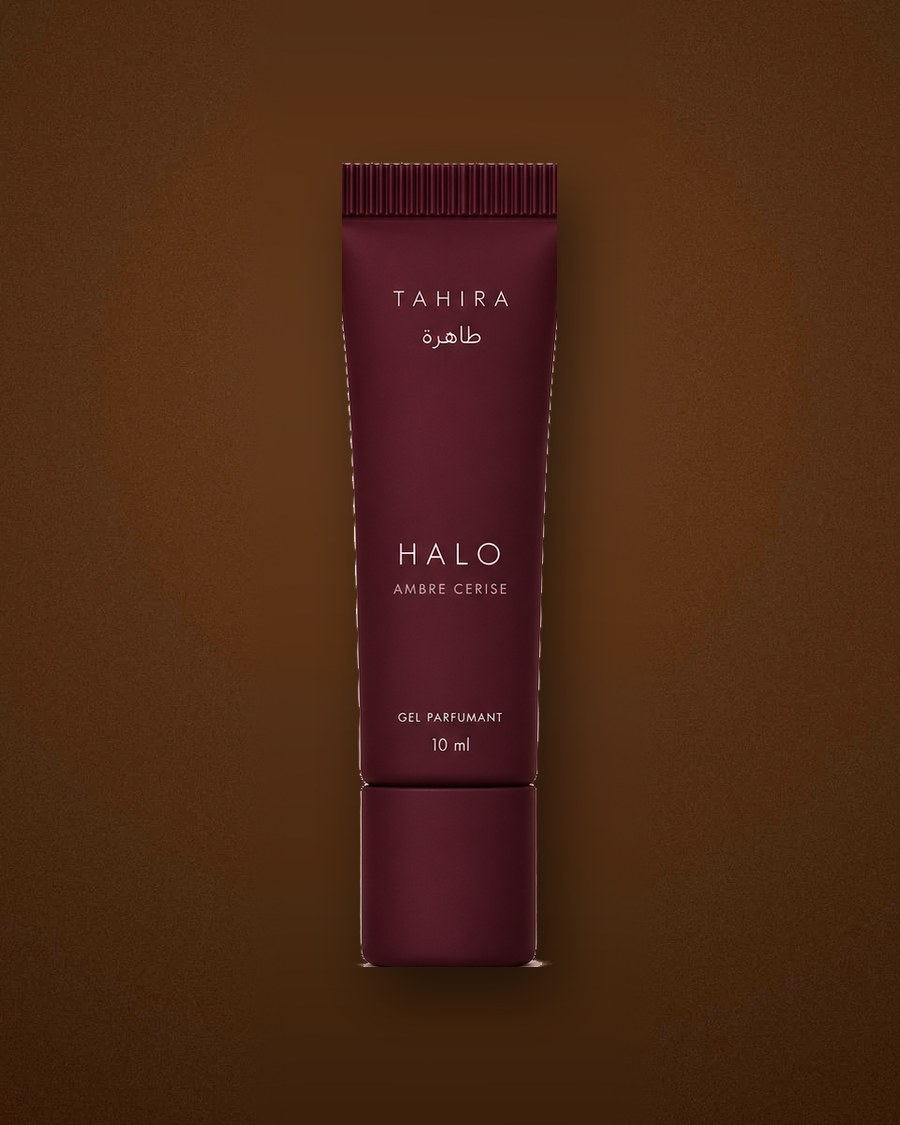
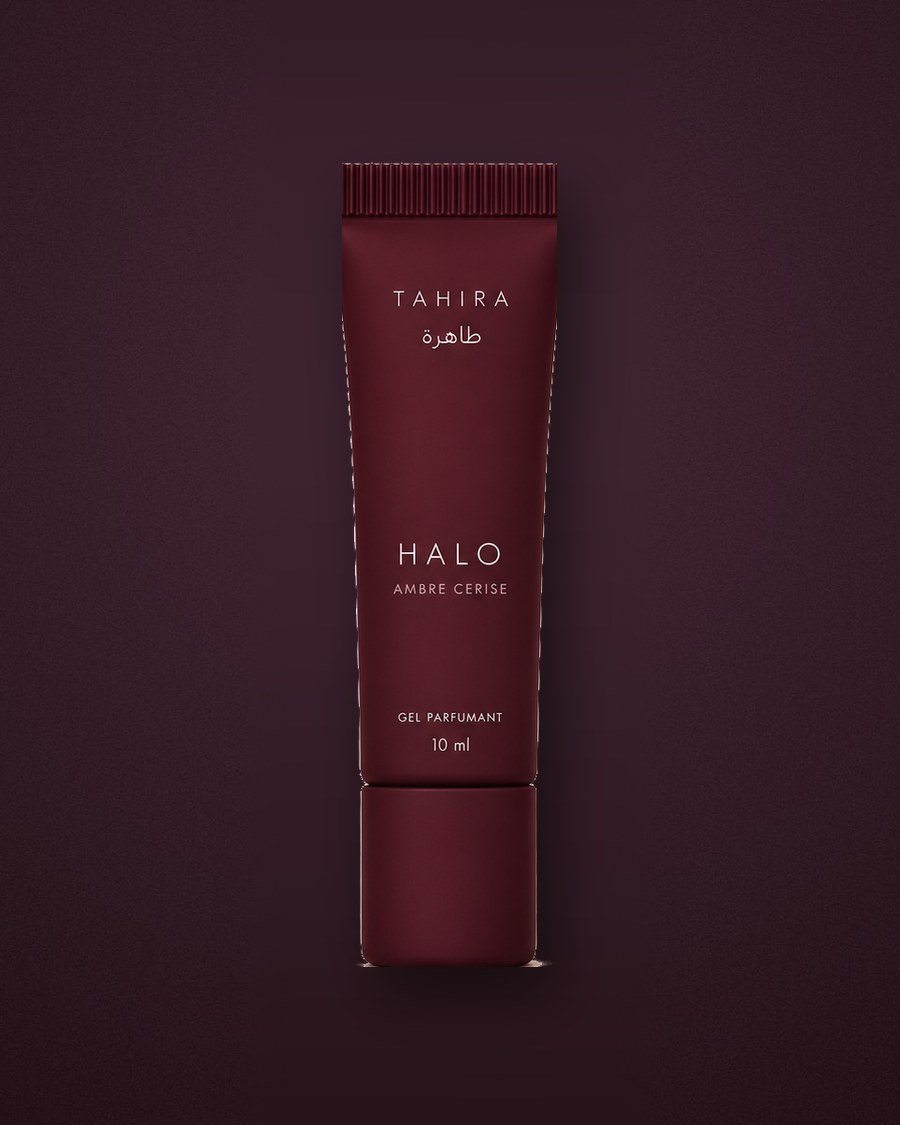
Remet les couleurs d'origine du site TAHIRA
VEIL bordeaux, HALO prune et EMBER magenta, avec leurs fonds, leurs noms
de teinte et leurs pastilles, exactement comme dans le fichier d'origine.
Les vignettes et la galerie de VEIL et HALO reprennent leurs fonds
d'origine. Les autres corrections du document restent en place.

Claude-Session: https://claude.ai/code/session_01JRzqBTvabHHqzL7dRY4HUs

diff --git a/tahira/index.html b/tahira/index.html
@@ -12,10 +12,10 @@
   --ink-34:rgba(18,16,16,.34);
   --line:#E4DFDA;
   --line-2:#F0ECE8;
-  --veil:#6E6257;   --veil-d:#4A4138;
+  --veil:#552521;   --veil-d:#370E0A;
   --mirage:#3E2C25; --mirage-d:#21130D;
   --ember:#80213A;  --ember-d:#660623;
-  --halo:#7A4A22;   --halo-d:#55301A;
+  --halo:#462938;   --halo-d:#2C141F;
   --tint:#FAF7F6;
   --glow:rgba(85,37,33,.10);
   --acc:#552521;
@@ -110,7 +110,7 @@ img{max-width:100%;height:auto;display:block}
 <style>
 /* ---------- hero: the only section that carries full colour ---------- */
 .hero{
-  --hb:#4A4138; --hd:#241F1B; --hg:#8A7D70;
+  --hb:#370E0A; --hd:#1B0301; --hg:#6B3C37;
   position:relative;overflow:hidden;color:#fff;
   background:
     radial-gradient(136% 92% at 50% -10%, var(--hg) 0%, rgba(0,0,0,0) 64%),
@@ -1161,7 +1161,7 @@ p,li,dd,summary,.body-l,.fine{text-wrap:pretty}
 <a class="skip" href="#top" data-i="skip">Skip to content</a>
 <style>
 /* ---------- corrections du document TAHIRA ---------- */
-:root{--veil-t:#A39482;--mirage-t:#6B4A3A;--ember-t:#B0244F;--halo-t:#B9773B}
+:root{--veil-t:var(--veil);--mirage-t:var(--mirage);--ember-t:var(--ember);--halo-t:var(--halo)}
 
 /* en-tete : plus bas, sans cadres ; la langue active est soulignee */
 .top__in{padding-block:7px}
@@ -1851,21 +1851,21 @@ html{scroll-padding-top:84px}
 
   var MUSKS = [
     { key:"veil", latin:"VEIL", arName:"فيل", img:"veil.png", tile:"tile-veil.jpg", price:169,
-      face:"#6E6257", lit:"#8A7D70", dom:"#4A4138", deep:"#241F1B", tint:"#A39482",
-      en:{ short:"white musk", note:"White musk: clean, powdered, the smell of skin after the shower", colour:"Deep greige" },
-      ar:{ short:"مسك أبيض", note:"مسك أبيض: نظيف، بودري، رائحة البشرة بعد الاستحمام", colour:"بيج رمادي داكن" } },
+      face:"#552521", lit:"#6B3C37", dom:"#370E0A", deep:"#1B0301", tint:"#552521",
+      en:{ short:"white musk", note:"White musk: clean, powdered, the smell of skin after the shower", colour:"Deep bordeaux" },
+      ar:{ short:"مسك أبيض", note:"مسك أبيض: نظيف، بودري، رائحة البشرة بعد الاستحمام", colour:"بوردو غامق" } },
     { key:"mirage", latin:"MIRAGE", arName:"ميراج", img:"mirage.png", tile:"tile-mirage.jpg", price:169,
-      face:"#3E2C25", lit:"#57443D", dom:"#21130D", deep:"#0E0502", tint:"#6B4A3A",
+      face:"#3E2C25", lit:"#57443D", dom:"#21130D", deep:"#0E0502", tint:"#3E2C25",
       en:{ short:"oud vanilla", note:"Oud vanilla musk: oud, softened by vanilla, a warm woody finish", colour:"Chocolate brown" },
       ar:{ short:"مسك عود وفانيليا", note:"مسك عود وفانيليا: عود تليّنه الفانيليا، ونهاية خشبية دافئة", colour:"بني شوكولاتة" } },
     { key:"ember", latin:"EMBER", arName:"إمبر", img:"ember.png", tile:"tile-ember.jpg", price:169,
-      face:"#80213A", lit:"#94384F", dom:"#660623", deep:"#320108", tint:"#B0244F",
-      en:{ short:"cherry amber", note:"Cherry amber musk: black cherry, almond, warm amber", colour:"Garnet red" },
-      ar:{ short:"مسك كرز وعنبر", note:"مسك كرز وعنبر: كرز أسود، لوز، عنبر دافئ", colour:"أحمر عقيقي" } },
+      face:"#80213A", lit:"#94384F", dom:"#660623", deep:"#320108", tint:"#80213A",
+      en:{ short:"cherry amber", note:"Cherry amber musk: black cherry, almond, warm amber", colour:"Deep magenta" },
+      ar:{ short:"مسك كرز وعنبر", note:"مسك كرز وعنبر: كرز أسود، لوز، عنبر دافئ", colour:"ماجنتا غامق" } },
     { key:"halo", latin:"HALO", arName:"هالو", img:"halo.png", tile:"tile-halo.jpg", price:169,
-      face:"#7A4A22", lit:"#96613A", dom:"#55301A", deep:"#2A170A", tint:"#B9773B",
-      en:{ short:"pistachio caramel", note:"Pistachio caramel musk: pistachio, caramel, white musk", colour:"Caramel brown" },
-      ar:{ short:"مسك فستق وكراميل", note:"مسك فستق وكراميل: فستق، كراميل، مسك أبيض", colour:"بني كراميل" } }
+      face:"#462938", lit:"#5C3F4E", dom:"#2C141F", deep:"#1D0D11", tint:"#462938",
+      en:{ short:"pistachio caramel", note:"Pistachio caramel musk: pistachio, caramel, white musk", colour:"Plum" },
+      ar:{ short:"مسك فستق وكراميل", note:"مسك فستق وكراميل: فستق، كراميل، مسك أبيض", colour:"برقوقي" } }
   ];
   var COFFRET = { key:"coffret", price:539,
     en:{ name:"THE COFFRET", desc:"All four musks, one for every kind of day" },

diff --git a/tahira/README.md b/tahira/README.md
@@ -13,8 +13,8 @@ Le site TAHIRA d'origine, avec les photos des vrais tubes et les corrections du 
 5. **Gel, pas huile** : « A gel, not a spray » ; « An applicator, not a dropper » remplacé par
    « A tube, not a bottle » ; toutes les mentions d'huile et de Grasse corrigées (accueil, maison, rituel, glossaire, questions).
    « Alcohol-free oil-gel » est gardé, comme demandé.
-6. **Gamme** : VEIL white musk (grège profond), MIRAGE oud vanilla, EMBER cherry amber (rouge grenat),
-   HALO pistachio caramel (brun caramel) ; notes, histoires, quiz et couleurs mis à jour.
+6. **Gamme** : VEIL white musk, MIRAGE oud vanilla, EMBER cherry amber, HALO pistachio caramel ;
+   notes, histoires et quiz mis à jour. Les couleurs du site restent celles d'origine.
 7. **Layering** : les six paires réécrites avec les nouvelles senteurs.
 8. **Carrousels sur téléphone** : une carte et un tiers de la suivante, un arrêt par carte, des points dessous.
 9. **« Not sure? Three questions »** sur sa propre ligne, sous la liste.
@@ -22,7 +22,7 @@ Le site TAHIRA d'origine, avec les photos des vrais tubes et les corrections du 
     les liens internes (Pairs, quiz) s'arrêtent sous l'en-tête.
 11. **Boutons** : un seul style, le filet fin.
 12. **« The other three »** au-dessus des trois autres musks sur chaque fiche.
-13. **Menu** : comme sur ta capture, les quatre musks en groupe avec la vraie teinte de chaque tube, puis Gift set,
+13. **Menu** : comme sur ta capture, les quatre musks en groupe avec leur couleur, puis Gift set,
     Pairs, Shop all four, puis Discover (How to wear, Our story, Glossary, FAQ). En haut sur ordinateur :
     Shop, Gift set, Pairs, How to wear, Our story, FAQ.
 14. **Informations réglementaires** : INCI, numéro de lot, date de péremption, pays d'origine, importateur aux Émirats,
@@ -32,7 +32,7 @@ Le site TAHIRA d'origine, avec les photos des vrais tubes et les corrections du 
 ## Les images
 
 Tirées de `photos/tubes-tahira.png`, avec les mêmes noms de fichiers qu'avant : tubes détourés, vignettes et galerie
-(VEIL sur fond grège, HALO sur fond caramel), alignement, coffret, tube seul, rituel. Le nom que le site dessinait
+(sur les fonds de couleur d'origine), alignement, coffret, tube seul, rituel. Le nom que le site dessinait
 sur les anciens tubes vierges est masqué, puisque les vrais tubes l'ont imprimé.
 
 ## À trancher
@@ -42,9 +42,8 @@ La photo des tubes ne correspond pas au document sur plusieurs points :
 | | Sur les tubes | Dans le document (et donc sur le site) |
 |---|---|---|
 | MIRAGE | Oud framboise | Oud vanilla |
-| HALO | Ambre cerise, tube prune | Pistachio caramel, brun caramel |
+| HALO | Ambre cerise | Pistachio caramel |
 | EMBER | Vanille sucrée | Cherry amber |
-| VEIL | tube brun foncé | grège profond |
 | Contenance | 10 ml | 15 ml |
 
 Il faudra soit de nouvelles photos de tubes, soit me dire quelle version est la bonne.
